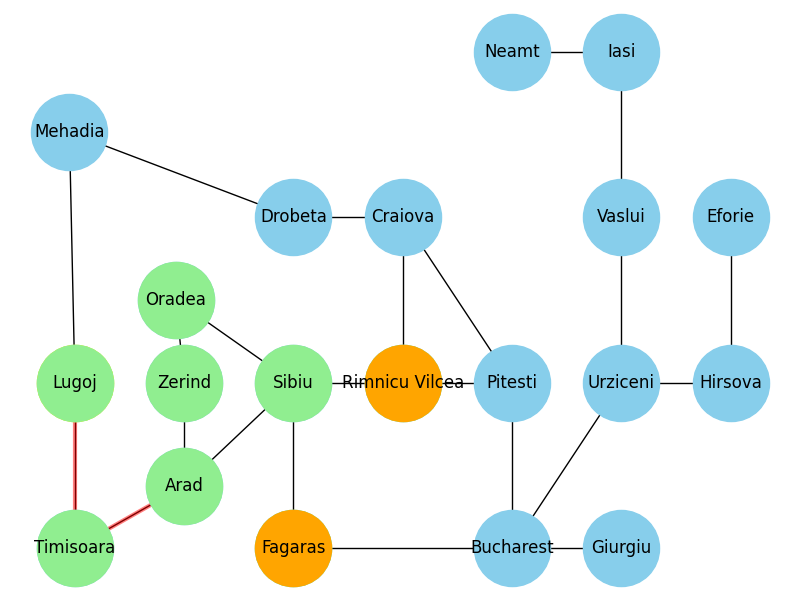
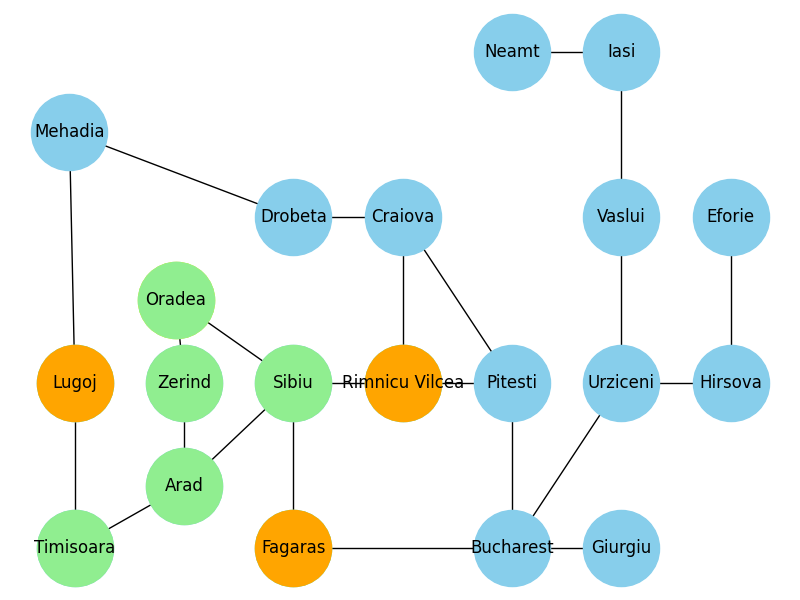
Commit Final Chnages

Changed region(s): [[0.0312, 0.57, 0.1562, 0.72], [0.1562, 0.84, 0.1875, 0.87], [0.125, 0.87, 0.1562, 0.9]]

diff --git a/test.py b/test.py
@@ -1,7 +1,7 @@
 import tkinter as tk
 from tkinter import ttk
-import matplotlib.pyplot as plt
 import networkx as nx
+import matplotlib.pyplot as plt
 
 # Romania map graph representation
 romania_map = {
@@ -55,20 +55,24 @@ node_positions = {
 root = tk.Tk()
 root.title("Romania Map BFS Visualization")
 
+# Create canvas for visualization
+canvas = tk.Canvas(root, width=800, height=600)
+canvas.pack()
+
 # Add dropdowns for selecting source and destination
 source_label = ttk.Label(root, text="Select Source:")
-source_label.grid(row=0, column=0, padx=10, pady=5)
+source_label.pack()
 source_var = tk.StringVar()
 source_dropdown = ttk.Combobox(root, textvariable=source_var)
 source_dropdown['values'] = tuple(romania_map.keys())
-source_dropdown.grid(row=0, column=1, padx=10, pady=5)
+source_dropdown.pack()
 
 destination_label = ttk.Label(root, text="Select Destination:")
-destination_label.grid(row=1, column=0, padx=10, pady=5)
+destination_label.pack()
 destination_var = tk.StringVar()
 destination_dropdown = ttk.Combobox(root, textvariable=destination_var)
 destination_dropdown['values'] = tuple(romania_map.keys())
-destination_dropdown.grid(row=1, column=1, padx=10, pady=5)
+destination_dropdown.pack()
 
 # Add Submit button
 def submit():
@@ -77,33 +81,38 @@ def submit():
     bfs_algorithm(source, destination)
 
 submit_button = ttk.Button(root, text="Submit", command=submit)
-submit_button.grid(row=2, column=0, columnspan=2, pady=10)
+submit_button.pack()
 
 # Display map
-def display_map(current_node, visited_nodes, queue, path):
-    G = nx.Graph(romania_map)
-    pos = node_positions
-    plt.figure(figsize=(10, 8))
+def display_map(G, pos, current_node, visited_nodes, queue, path):
+    canvas.delete("all")
+    plt.figure(figsize=(8, 6))
 
     nx.draw(G, pos, with_labels=True, node_size=3000, node_color='skyblue')
-    
+
     nx.draw_networkx_nodes(G, pos, nodelist=[current_node], node_color='yellow', node_size=3000)
 
     nx.draw_networkx_nodes(G, pos, nodelist=visited_nodes, node_color='lightgreen', node_size=3000)
 
     nx.draw_networkx_nodes(G, pos, nodelist=queue, node_color='lightblue', node_size=3000)
 
-    nx.draw_networkx_edges(G, pos, edgelist=path, edge_color='r', width=3, alpha=0.5)
-    
-    # Draw frontier/queue nodes
-    for node in queue:
-        nx.draw_networkx_nodes(G, pos, nodelist=[node], node_color='blue', node_size=3000)
+    nx.draw_networkx_edges(G, pos, edgelist=list(zip(path[:-1], path[1:])), edge_color='r', width=3, alpha=0.5)
 
     plt.title("Romania Map BFS Visualization")
-    plt.show()
+
+    plt.tight_layout()
+    plt.savefig("current_map.png")
+    plt.close()
+
+    current_map = tk.PhotoImage(file="current_map.png")
+    canvas.create_image(0, 0, anchor="nw", image=current_map)
+    canvas.image = current_map
 
 # Breadth First Search Algorithm
 def bfs_algorithm(source, destination):
+    G = nx.Graph(romania_map)
+    pos = node_positions.copy()
+
     visited = {source: None}
     queue = [source]
     path = []
@@ -111,18 +120,19 @@ def bfs_algorithm(source, destination):
         current_node = queue.pop(0)
         visited_nodes = list(visited.keys())
         if current_node == destination:
-            # Reconstruct path
-            node = destination
+            node = current_node
             while node is not None:
                 path.insert(0, node)
                 node = visited[node]
-            display_map(current_node, visited_nodes, queue, list(zip(path[:-1], path[1:])))
-            return
+            display_map(G, pos, current_node, visited_nodes, queue, path)
+            break
         for neighbor, _ in romania_map[current_node].items():
             if neighbor not in visited:
                 visited[neighbor] = current_node
                 queue.append(neighbor)
-        display_map(current_node, visited_nodes, queue, list(zip(path[:-1], path[1:])))
+        display_map(G, pos, current_node, visited_nodes, queue, path)
+        root.update_idletasks()
+        root.after(1000)  # Delay in milliseconds
 
 # Start GUI event loop
 root.mainloop()

diff --git a/test1.py b/test1.py
@@ -3,7 +3,6 @@ from tkinter import ttk
 import networkx as nx
 import matplotlib.pyplot as plt
 
-# Romania map graph representation
 romania_map = {
     'Arad': {'Zerind': 75, 'Timisoara': 118, 'Sibiu': 140},
     'Zerind': {'Arad': 75, 'Oradea': 71},
@@ -27,7 +26,6 @@ romania_map = {
     'Neamt': {'Iasi': 87}
 }
 
-# Define positions for nodes
 node_positions = {
     'Arad': (2, 1.75),
     'Zerind': (2, 3),
@@ -51,15 +49,12 @@ node_positions = {
     'Neamt': (8, 7)
 }
 
-# Create GUI window
 root = tk.Tk()
 root.title("Romania Map BFS Visualization")
 
-# Create canvas for visualization
 canvas = tk.Canvas(root, width=800, height=600)
 canvas.pack()
 
-# Add dropdowns for selecting source and destination
 source_label = ttk.Label(root, text="Select Source:")
 source_label.pack()
 source_var = tk.StringVar()
@@ -74,7 +69,6 @@ destination_dropdown = ttk.Combobox(root, textvariable=destination_var)
 destination_dropdown['values'] = tuple(romania_map.keys())
 destination_dropdown.pack()
 
-# Add Submit button
 def submit():
     source = source_var.get()
     destination = destination_var.get()
@@ -83,7 +77,6 @@ def submit():
 submit_button = ttk.Button(root, text="Submit", command=submit)
 submit_button.pack()
 
-# BFS traversal
 def traverse_bfs(source, destination):
     G = nx.Graph(romania_map)
     pos = node_positions.copy()
@@ -92,7 +85,31 @@ def traverse_bfs(source, destination):
     queue = [source]
     path = []
 
-    # Function to update canvas with current state
+    # def update_canvas():
+    #     canvas.delete("all")
+    #     plt.figure(figsize=(8, 6))
+
+    #     nx.draw(G, pos, with_labels=True, node_size=3000, node_color='skyblue')
+
+    #     nx.draw_networkx_nodes(G, pos, nodelist=[current_node], node_color='yellow', node_size=3000)
+
+    #     nx.draw_networkx_nodes(G, pos, nodelist=visited_nodes, node_color='lightgreen', node_size=3000)
+
+    #     nx.draw_networkx_nodes(G, pos, nodelist=queue, node_color='orange', node_size=3000)
+
+    #     nx.draw_networkx_edges(G, pos, edgelist=list(zip(path[:-1], path[1:])), edge_color='r', width=3, alpha=0.5)
+
+    #     plt.title("Romania Map BFS Visualization")
+
+    #     plt.tight_layout()
+    #     plt.savefig("current_map.png")
+    #     plt.close()
+
+    #     current_map = tk.PhotoImage(file="current_map.png")
+    #     canvas.create_image(0, 0, anchor="nw", image=current_map)
+    #     canvas.image = current_map
+    #     root.update()
+    
     def update_canvas():
         canvas.delete("all")
         plt.figure(figsize=(8, 6))
@@ -116,7 +133,13 @@ def traverse_bfs(source, destination):
         current_map = tk.PhotoImage(file="current_map.png")
         canvas.create_image(0, 0, anchor="nw", image=current_map)
         canvas.image = current_map
+        
+        # Update the labels
+        queue_text.set(" " + ", ".join(queue))
+        visited_nodes_text.set(" " + ", ".join(visited_nodes))
+
         root.update()
+
 
     def next_step():
         nonlocal path, current_node, visited_nodes, queue
@@ -138,11 +161,30 @@ def traverse_bfs(source, destination):
         else:
             print("Destination unreachable")
 
-    # Initialize starting node
     current_node = source
     visited_nodes = [source]
+    queue_label = ttk.Label(root, text="Queue:")
+    queue_label.pack()
+
+    queue_text = tk.StringVar()
+    queue_text.set("")
+    queue_display = ttk.Label(root, textvariable=queue_text)
+    queue_display.pack()
+
+    visited_nodes_label = ttk.Label(root, text="Visited Nodes:")
+    visited_nodes_label.pack()
+
+    visited_nodes_text = tk.StringVar()
+    visited_nodes_text.set("")
+    visited_nodes_display = ttk.Label(root, textvariable=visited_nodes_text)
+    visited_nodes_display.pack()
+
     next_step_button = ttk.Button(root, text="Next", command=next_step)
     next_step_button.pack()
 
-# Start GUI event loop
 root.mainloop()
+
+
+root.mainloop()
+
+
